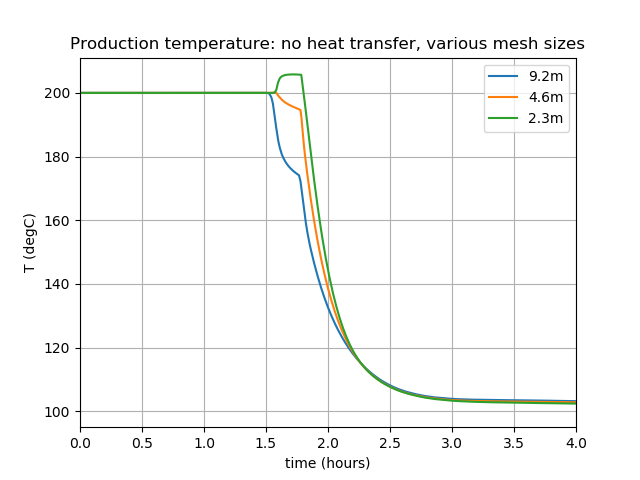
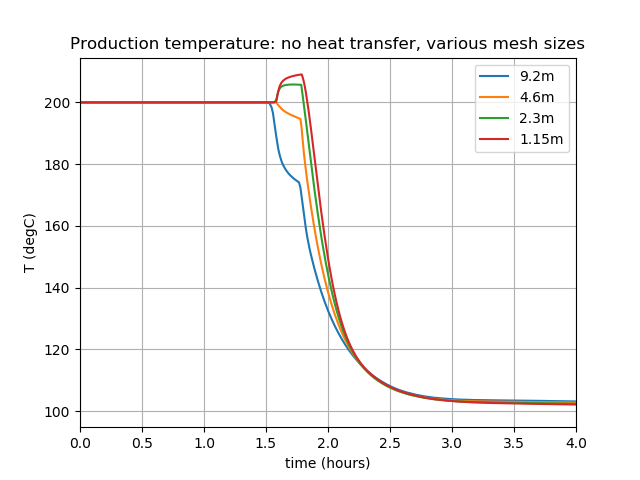
fracture_only_aperture_changing with even higher-res

diff --git a/3dFracture/fracture_only_aperture_changing.py b/3dFracture/fracture_only_aperture_changing.py
@@ -11,6 +11,8 @@ data = np.genfromtxt(r'fracture_only_aperture_changing_out_1.csv', delimiter=','
 plt.plot(data['time'][1:] / 3600.0, data['TK_out'][1:] - 273, label='4.6m')
 data = np.genfromtxt(r'fracture_only_aperture_changing_out_2.csv', delimiter=',', names=True)
 plt.plot(data['time'][1:] / 3600.0, data['TK_out'][1:] - 273, label='2.3m')
+data = np.genfromtxt(r'fracture_only_aperture_changing_out_3.csv', delimiter=',', names=True)
+plt.plot(data['time'][1:] / 3600.0, data['TK_out'][1:] - 273, label='1.15m')
 plt.grid()
 plt.legend()
 plt.title("Production temperature: no heat transfer, various mesh sizes")
@@ -28,6 +30,8 @@ data = np.genfromtxt(r'fracture_only_aperture_changing_out_1.csv', delimiter=','
 plt.plot(data['time'][1:] / 3600.0, data['P_out'][1:], label='4.6m')
 data = np.genfromtxt(r'fracture_only_aperture_changing_out_2.csv', delimiter=',', names=True)
 plt.plot(data['time'][1:] / 3600.0, data['P_out'][1:], label='2.3m')
+data = np.genfromtxt(r'fracture_only_aperture_changing_out_3.csv', delimiter=',', names=True)
+plt.plot(data['time'][1:] / 3600.0, data['P_out'][1:], label='1.15m')
 plt.grid()
 plt.legend()
 plt.title("Production porepressure: no heat transfer, various mesh sizes")

diff --git a/doc/content/multiapp_fracture_flow_PorousFlow_3D.md b/doc/content/multiapp_fracture_flow_PorousFlow_3D.md
@@ -149,7 +149,7 @@ The pressure at the injection point rises from its insitu value of around 9.4$\,
 
 Some results are shown in [fracture_only_aperture_changing_T_out] and [fracture_only_aperture_changing_P_out].  Thermal breakthrough occurs at around 1.5 hours after injection starts.  These simulations were run using different mesh sizes (by choosing `Mesh/uniform_refine` appropriately) to illustrate the impact of different meshes in this problem.  Some observations are:
 
-- There is an interesting increase of temperature around the production well in the finest-resolution case.  The reason for this is that a thin layer of insitu hot fluid is "squashed" against the fracture ends as the cold fluid invades the fracture (the thin layer is not resolved in the low-resolution cases).  This is also clearly seen in [orbit_T].  The hot fluid cannot escape, and it becomes pressurized, leading to an increase in temperature.  Eventually the porepressure increases to 10.6$\,$MPa and the production well activates, withdrawing the hot fluid, and the near-well area cools.  In regions where there is no production well, the high temperature eventually diffuses.  If the production well were in the middle of a fracture, this interesting phenomenon wouldn't be seen.
+- There is an interesting increase of temperature around the production well in the finer-resolution cases.  The reason for this is that a thin layer of insitu hot fluid is "squashed" against the fracture ends as the cold fluid invades the fracture (the thin layer is not resolved in the low-resolution cases).  This is also clearly seen in [orbit_T].  The hot fluid cannot escape, and it becomes pressurized, leading to an increase in temperature.  Eventually the porepressure increases to 10.6$\,$MPa and the production well activates, withdrawing the hot fluid, and the near-well area cools.  In regions where there is no production well, the high temperature eventually diffuses.  If the production well were in the middle of a fracture, this interesting phenomenon wouldn't be seen.
 - As mesh resolution is increased, the results appear to be converging to an "infinite-resolution" case.  Given the likely uncertainties in parameter values and the physics of aperture dilation, a mesh with element side-lengths of 10$\,$m is likely to be perfectly adequate for this type of problem.
 
 !media media/fracture_only_aperture_changing_P_out.png
